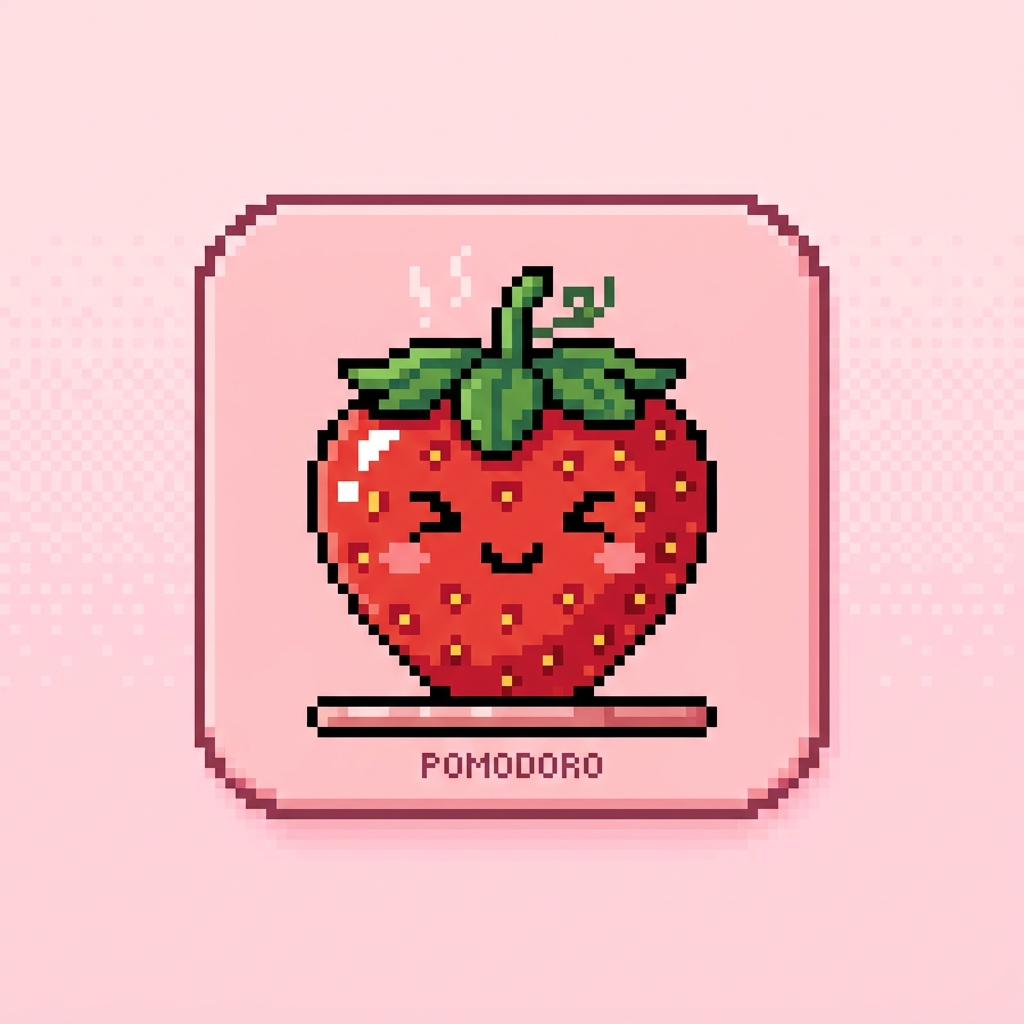
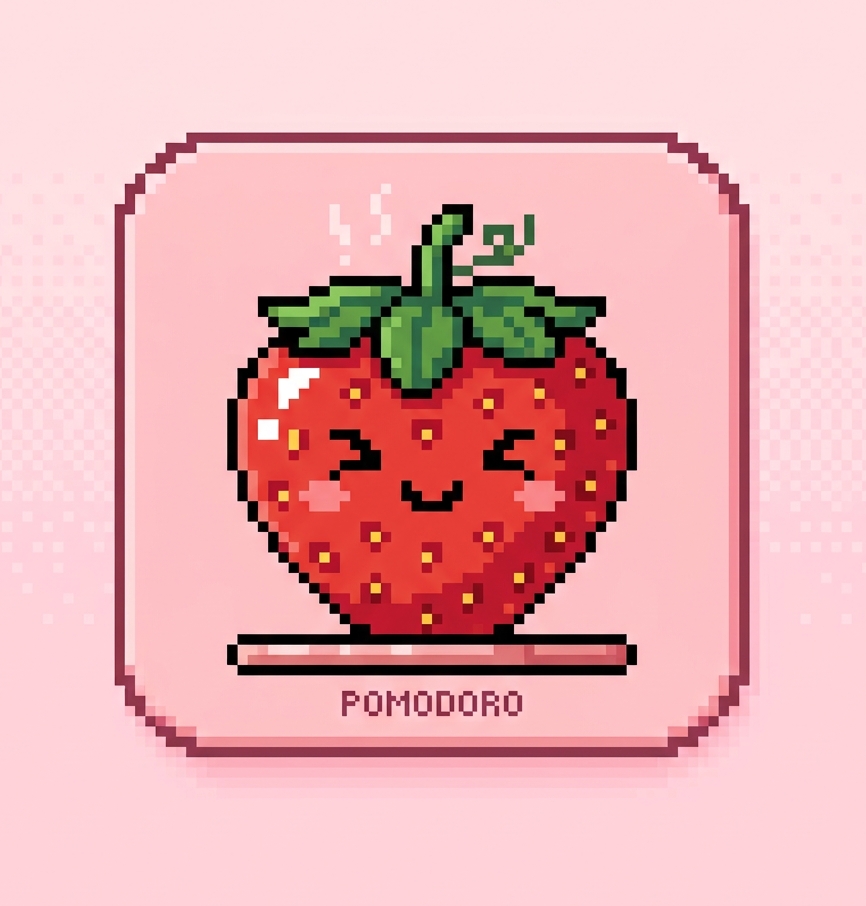
fix: repair music toggle, overflow, and pink crystal background

Changed region(s): [[0.1247, 0.1236, 0.873, 0.8653]]

diff --git a/lib/main.dart b/lib/main.dart
@@ -14,7 +14,7 @@ class PixelPomodoroApp extends StatelessWidget {
       debugShowCheckedModeBanner: false,
       title: 'Pomodoro',
       theme: ThemeData(
-        scaffoldBackgroundColor: const Color(0xFFFFF0F5), // Lavender Blush
+        scaffoldBackgroundColor: const Color(0xFFFFBCC3),
         textTheme: GoogleFonts.pressStart2pTextTheme(),
       ),
       home: const PomodoroScreen(),
@@ -64,7 +64,10 @@ class _PomodoroScreenState extends State<PomodoroScreen> {
   Future<void> _startLoopMusic() async {
     await loopPlayer.setReleaseMode(ReleaseMode.loop);
     await loopPlayer.setVolume(0.18);
-    await loopPlayer.play(AssetSource('sounds/loop.mp3'));
+    await loopPlayer.setSource(AssetSource('sounds/loop.mp3'));
+    if (musicEnabled) {
+      await loopPlayer.resume();
+    }
   }
 
   Future<void> _playClick() async {
@@ -74,12 +77,12 @@ class _PomodoroScreenState extends State<PomodoroScreen> {
   }
 
   Future<void> _toggleMusic() async {
-    _playClick();
+    await _playClick();
     setState(() => musicEnabled = !musicEnabled);
     if (musicEnabled) {
       await _startLoopMusic();
     } else {
-      await loopPlayer.pause();
+      await loopPlayer.stop();
     }
   }
 
@@ -237,108 +240,111 @@ class _PomodoroScreenState extends State<PomodoroScreen> {
   Widget build(BuildContext context) {
     // Tablet optimizasyonu için max genişlik sınırı
     return Scaffold(
-      body: Center(
-        child: Container(
-          constraints: const BoxConstraints(maxWidth: 600),
-          padding: const EdgeInsets.all(24.0),
-          child: SingleChildScrollView(
-            child: Column(
-              mainAxisAlignment: MainAxisAlignment.center,
-              children: [
-                // Dynamic hero image: changes based on timer state
-                Hero(
-                  tag: 'app-hero',
-                  child: Image.asset(
-                    currentAsset,
-                    width: 240,
-                    height: 240,
-                    fit: BoxFit.contain,
-                    errorBuilder: (c, e, s) => const SizedBox.shrink(),
+      body: CustomPaint(
+        painter: _CrystalPainter(),
+        child: Center(
+          child: Container(
+            constraints: const BoxConstraints(maxWidth: 600),
+            padding: const EdgeInsets.all(24.0),
+            child: SingleChildScrollView(
+              child: Column(
+                mainAxisAlignment: MainAxisAlignment.center,
+                children: [
+                  // Dynamic hero image: changes based on timer state
+                  Hero(
+                    tag: 'app-hero',
+                    child: Image.asset(
+                      currentAsset,
+                      width: 240,
+                      height: 240,
+                      fit: BoxFit.contain,
+                      errorBuilder: (c, e, s) => const SizedBox.shrink(),
+                    ),
                   ),
-                ),
-                const SizedBox(height: 20),
-                Text(
-                  currentState == 'working'
-                      ? 'ODAKLANMA VAKTİ'
-                      : currentState == 'onBreak'
-                          ? 'MOLA VAKTİ'
-                          : 'BAŞLAMAYA HAZIR',
-                  style: const TextStyle(
-                      fontSize: 24, color: Color(0xFFFFB6C1)), // Light Pink
-                  textAlign: TextAlign.center,
-                ),
-                const SizedBox(height: 30),
-                Container(
-                  padding:
-                      const EdgeInsets.symmetric(vertical: 20, horizontal: 20),
-                  decoration: BoxDecoration(
-                    color: const Color(0xFFFFC0CB), // Pink
-                    borderRadius: BorderRadius.circular(16),
-                    border:
-                        Border.all(color: const Color(0xFFFF69B4), width: 4),
-                    boxShadow: const [
-                      BoxShadow(
-                        color: Color(0xFFFF69B4),
-                        offset: Offset(4, 4),
-                      )
-                    ],
+                  const SizedBox(height: 20),
+                  Text(
+                    currentState == 'working'
+                        ? 'ODAKLANMA VAKTİ'
+                        : currentState == 'onBreak'
+                            ? 'MOLA VAKTİ'
+                            : 'BAŞLAMAYA HAZIR',
+                    style: const TextStyle(
+                        fontSize: 24, color: Color(0xFFFFB6C1)), // Light Pink
+                    textAlign: TextAlign.center,
                   ),
-                  child: Row(
-                    mainAxisSize: MainAxisSize.min,
+                  const SizedBox(height: 30),
+                  Container(
+                    padding: const EdgeInsets.symmetric(
+                        vertical: 20, horizontal: 20),
+                    decoration: BoxDecoration(
+                      color: const Color(0xFFFFC0CB), // Pink
+                      borderRadius: BorderRadius.circular(16),
+                      border:
+                          Border.all(color: const Color(0xFFFF69B4), width: 4),
+                      boxShadow: const [
+                        BoxShadow(
+                          color: Color(0xFFFF69B4),
+                          offset: Offset(4, 4),
+                        )
+                      ],
+                    ),
+                    child: Row(
+                      mainAxisSize: MainAxisSize.min,
+                      children: [
+                        Image.asset('assets/asset-sheet_slices/time.jpg',
+                            width: 34, height: 34),
+                        const SizedBox(width: 8),
+                        Text(
+                          timerText,
+                          style: const TextStyle(
+                              fontSize: 48,
+                              color: Colors.white,
+                              letterSpacing: 4),
+                        ),
+                      ],
+                    ),
+                  ),
+                  const SizedBox(height: 30),
+                  Wrap(
+                    alignment: WrapAlignment.center,
+                    spacing: 12,
                     children: [
-                      Image.asset('assets/asset-sheet_slices/time.jpg',
-                          width: 34, height: 34),
-                      const SizedBox(width: 8),
-                      Text(
-                        timerText,
-                        style: const TextStyle(
-                            fontSize: 48,
-                            color: Colors.white,
-                            letterSpacing: 4),
+                      _PixelButton(
+                        text: isRunning ? 'DURDUR' : 'BAŞLA',
+                        onPressed: isRunning ? stopTimer : startTimer,
+                        color: const Color(0xFFFF69B4),
+                        asset: 'assets/asset-sheet_slices/pomodoro-start.jpg',
+                      ),
+                      _PixelButton(
+                        text: 'SIFIRLA',
+                        onPressed: resetTimer,
+                        color: const Color(0xFFFF69B4),
+                        asset: 'assets/asset-sheet_slices/pomodoro-end.jpg',
                       ),
                     ],
                   ),
-                ),
-                const SizedBox(height: 30),
-                Row(
-                  mainAxisAlignment: MainAxisAlignment.center,
-                  children: [
-                    _PixelButton(
-                      text: isRunning ? 'DURDUR' : 'BAŞLA',
-                      onPressed: isRunning ? stopTimer : startTimer,
-                      color: const Color(0xFFFF69B4),
-                      asset: 'assets/asset-sheet_slices/pomodoro-start.jpg',
-                    ),
-                    const SizedBox(width: 20),
-                    _PixelButton(
-                      text: 'SIFIRLA',
-                      onPressed: resetTimer,
-                      color: const Color(0xFFFFA07A), // Light Salmon
-                      asset: 'assets/asset-sheet_slices/pomodoro-end.jpg',
-                    ),
-                  ],
-                ),
-                const SizedBox(height: 20),
-                // Temporary button for testing break mode
-                _PixelButton(
-                  text: 'MOLA TEST',
-                  onPressed: () {
-                    stopTimer();
-                    setState(() {
-                      currentState = 'onBreak';
-                      timeLeft = breakDuration;
-                    });
-                  },
-                  color: const Color(0xFF87CEEB), // Sky Blue
-                  asset: 'assets/asset-sheet_slices/mola.jpg',
-                ),
-                const SizedBox(height: 12),
-                _AssetButton(
-                  asset: 'assets/asset-sheet_slices/settings.jpg',
-                  label: 'AYARLAR',
-                  onTap: openSettings,
-                ),
-              ],
+                  const SizedBox(height: 20),
+                  // Temporary button for testing break mode
+                  _PixelButton(
+                    text: 'MOLA TEST',
+                    onPressed: () {
+                      stopTimer();
+                      setState(() {
+                        currentState = 'onBreak';
+                        timeLeft = breakDuration;
+                      });
+                    },
+                    color: const Color(0xFF87CEEB), // Sky Blue
+                    asset: 'assets/asset-sheet_slices/mola.jpg',
+                  ),
+                  const SizedBox(height: 12),
+                  _AssetButton(
+                    asset: 'assets/asset-sheet_slices/settings.jpg',
+                    label: 'AYARLAR',
+                    onTap: openSettings,
+                  ),
+                ],
+              ),
             ),
           ),
         ),
@@ -440,4 +446,40 @@ class _SettingRow extends StatelessWidget {
       ],
     );
   }
+}
+
+class _CrystalPainter extends CustomPainter {
+  @override
+  void paint(Canvas canvas, Size size) {
+    final paint = Paint()..color = const Color(0xFFFFE6EA);
+    const crystalSize = 4.0;
+    const points = [
+      Offset(28, 90),
+      Offset(92, 180),
+      Offset(220, 70),
+      Offset(330, 150),
+      Offset(470, 100),
+      Offset(560, 220),
+      Offset(42, 420),
+      Offset(500, 480),
+      Offset(150, 620),
+    ];
+    for (final point in points) {
+      canvas.drawRect(
+        Rect.fromCenter(center: point, width: crystalSize, height: 20),
+        paint,
+      );
+      canvas.drawRect(
+        Rect.fromCenter(center: point, width: 20, height: crystalSize),
+        paint,
+      );
+      canvas.drawRect(
+        Rect.fromCenter(center: point, width: 8, height: 8),
+        paint,
+      );
+    }
+  }
+
+  @override
+  bool shouldRepaint(covariant CustomPainter oldDelegate) => false;
 }
